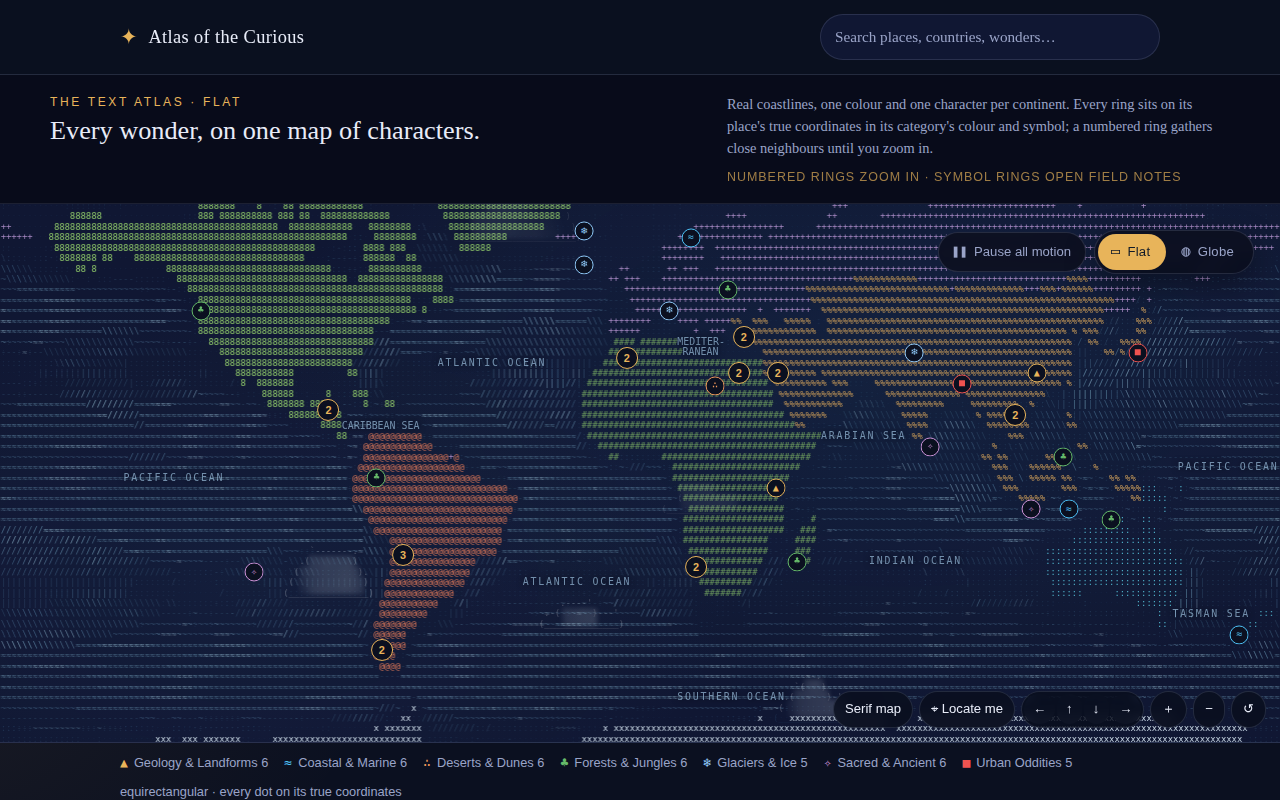
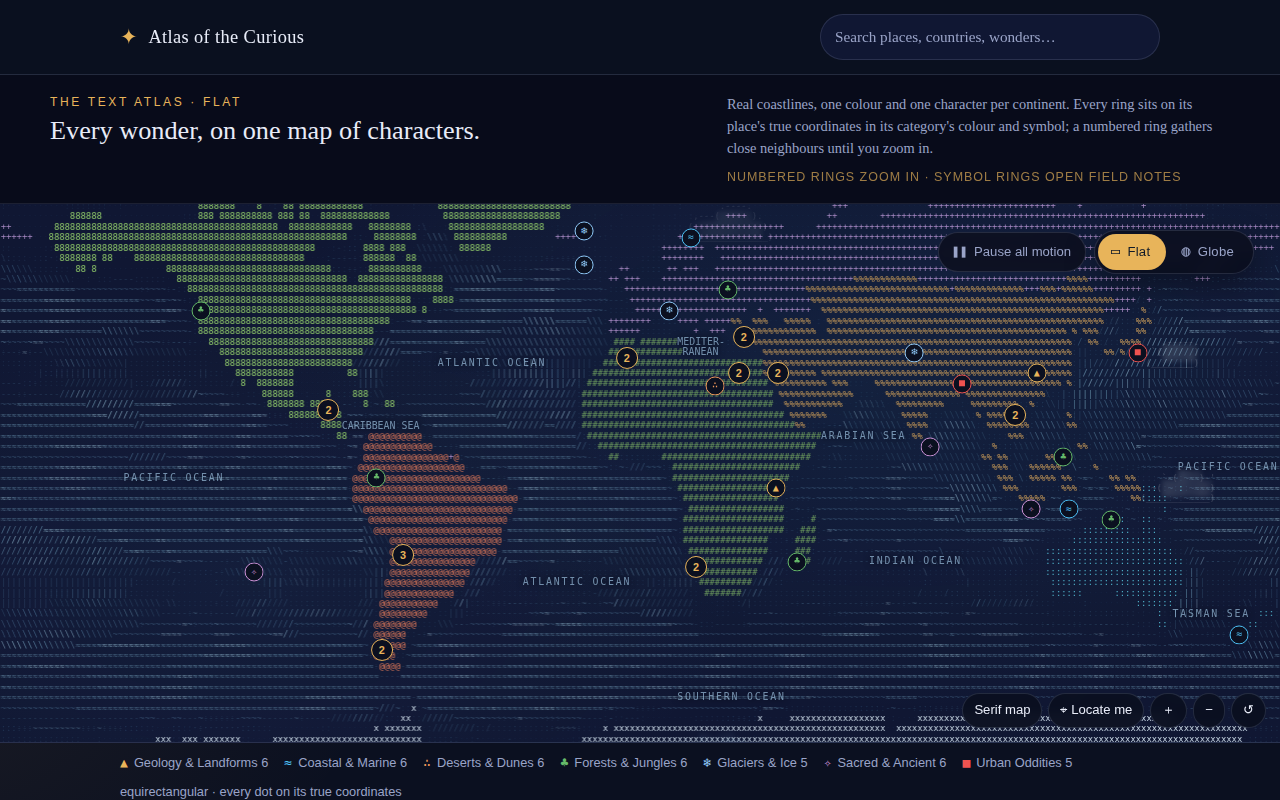
Address review round 20: readout clear of the control bar, phone Options
- On wide screens the filter readout sits top-left, across from the switch,
  so it can never collide with the full-width globe control bar; long
  queries truncate while the count and actions stay.
- The flat pan pad honours hidden at overview zoom.
- Phones keep the globe controls in two rows: Auto-rotate, Serif and Names
  open from a labelled Options popover (Escape or an outside tap closes).

diff --git a/css/globe.css b/css/globe.css
@@ -258,6 +258,7 @@
   .globe-controls .zoom-group { gap: 6px; }
 }
 .zoom-group, .appearance-group { display: flex; gap: 6px; }
+.pan-pad[hidden], .appearance-toggle { display: none; }
 .turn-pad { display: flex; gap: 2px; padding: 2px; border: 1px solid var(--line); border-radius: 999px; background: rgba(9, 13, 28, 0.82); }
 .turn-pad .map-btn { border-color: transparent; background: transparent; padding: 4px 8px; }
 .lod-switch {
@@ -278,8 +279,10 @@
    a search never reflows the page beneath the grid's scroll anchor. */
 .atlas-filter {
   position: absolute;
+  /* Top left, across from the switch: the bottom edge belongs to the
+     control bars, which can be as wide as the map. */
   left: 26px;
-  bottom: 14px;
+  top: 26px;
   z-index: 10;
   display: flex;
   align-items: center;
@@ -295,6 +298,11 @@
   backdrop-filter: blur(6px);
 }
 .atlas-filter[hidden] { display: none; }
+@media (min-width: 1100px) {
+  .atlas-filter { max-width: calc(100% - 52px - 340px); }
+  .atlas-filter-text { min-width: 0; overflow: hidden; text-overflow: ellipsis; white-space: nowrap; }
+  .atlas-filter-clear { flex: none; }
+}
 /* Count first, so a clipped line still says how many places match. */
 .atlas-filter-clear {
   font: inherit;
@@ -428,7 +436,15 @@
   /* Three even rows: detail and zoom, movement, appearance. */
   /* Two rows on a phone: detail, zoom and movement first; rotation and
      appearance share the second, compact, so all stay near the globe. */
-  .globe-controls .appearance-group { justify-content: flex-end; }
+  /* Appearance settings live behind an Options disclosure on phones. */
+  .globe-controls .appearance-toggle { display: inline-flex; margin-left: auto; }
+  .globe-controls .appearance-group {
+    position: absolute; right: 10px; bottom: calc(100% + 8px);
+    padding: 6px; border: 1px solid var(--line); border-radius: 999px;
+    background: rgba(9, 13, 28, 0.95); box-shadow: 0 10px 30px rgba(0, 0, 0, 0.4);
+  }
+  .globe-controls .appearance-group:not(.is-open) { display: none; }
+  .map-toolbar-bottom { position: relative; }
   .globe-controls .turn-pad .map-btn { padding: 4px 6px; }
   .globe-controls #rotate-toggle { padding: 6px 10px; }
   /* Two deliberate rows, in DOM (and focus) order: what to see (detail,

diff --git a/js/views.js b/js/views.js
@@ -156,6 +156,31 @@ if (section && globeView) {
   phone.addEventListener("change", placeTools);
   placeTools();
 
+  // Phones: the globe's appearance settings open from an Options button.
+  const optToggle = document.getElementById("appearance-toggle");
+  const optGroup = document.getElementById("appearance-group");
+  const setOptions = (open) => {
+    optGroup?.classList.toggle("is-open", open);
+    optToggle?.setAttribute("aria-expanded", String(open));
+    if (optToggle) optToggle.textContent = open ? "Options ▴" : "Options ▾";
+  };
+  // On a phone Auto-rotate joins Serif and Names inside Options, so the
+  // globe's controls stay in two rows; wider screens keep it in the bar.
+  const rotate = document.getElementById("rotate-toggle");
+  const narrow = matchMedia("(max-width: 640px)");
+  const placeRotate = () => {
+    if (!rotate || !optGroup || !optToggle) return;
+    if (narrow.matches) optGroup.prepend(rotate);
+    else optToggle.before(rotate);
+  };
+  narrow.addEventListener("change", placeRotate);
+  placeRotate();
+  optToggle?.addEventListener("click", () => setOptions(!optGroup.classList.contains("is-open")));
+  optGroup?.addEventListener("keydown", (e) => { if (e.key === "Escape") { setOptions(false); optToggle.focus(); } });
+  document.addEventListener("click", (e) => {
+    if (optGroup?.classList.contains("is-open") && !e.target.closest("#appearance-group, #appearance-toggle")) setOptions(false);
+  });
+
   // Zoom takes Command on a Mac and Control elsewhere (js/gesture-hint.js).
   if (/Mac|iPhone|iPad/.test(navigator.platform || "")) {
     for (const el of document.querySelectorAll(".mod-key")) el.textContent = "⌘";

diff --git a/index.html b/index.html
@@ -128,7 +128,8 @@
               <button class="map-btn" id="turn-right" type="button" aria-label="Turn east" title="Turn east (→)">→</button>
             </div>
           <button class="map-btn" id="rotate-toggle" type="button" aria-pressed="false" aria-label="Auto-rotate"><span id="rotate-icon" aria-hidden="true">▷</span> <span id="rotate-text">Auto-rotate</span></button>
-          <div class="appearance-group" role="group" aria-label="Appearance">
+          <button class="map-btn appearance-toggle" id="appearance-toggle" type="button" aria-expanded="false" aria-controls="appearance-group">Options ▾</button>
+          <div class="appearance-group" id="appearance-group" role="group" aria-label="Appearance">
             <button class="map-btn" id="serif-toggle" type="button" aria-pressed="false">Serif<span class="long-label"> globe</span></button>
             <button class="map-btn" id="labels-toggle" type="button" aria-pressed="true" title="Place and country names at close range">Names</button>
           </div>
